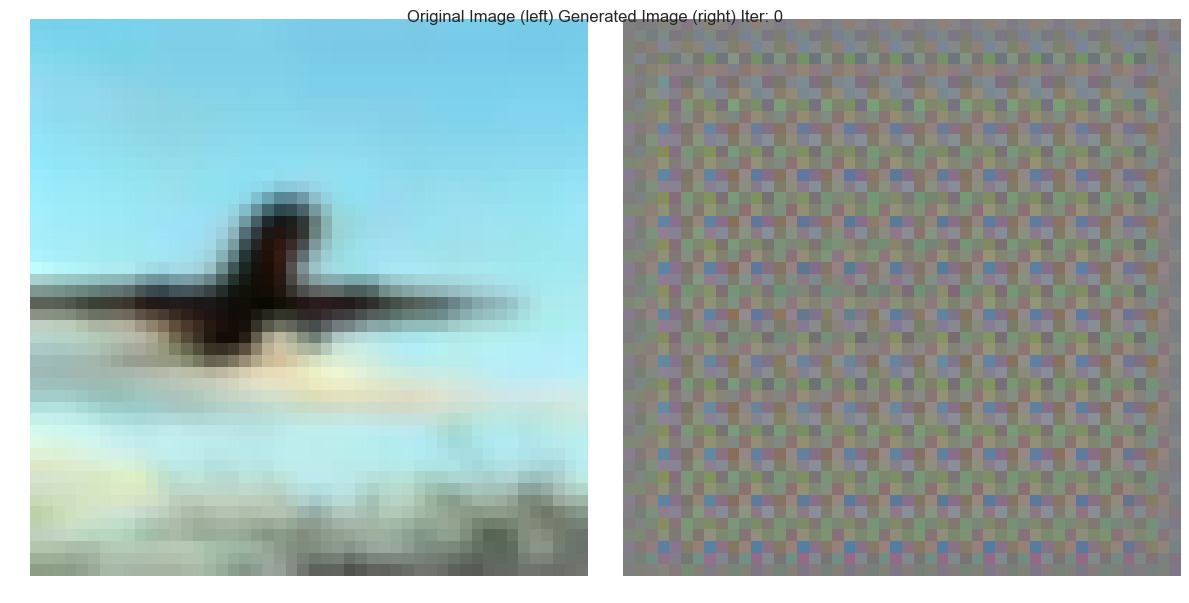
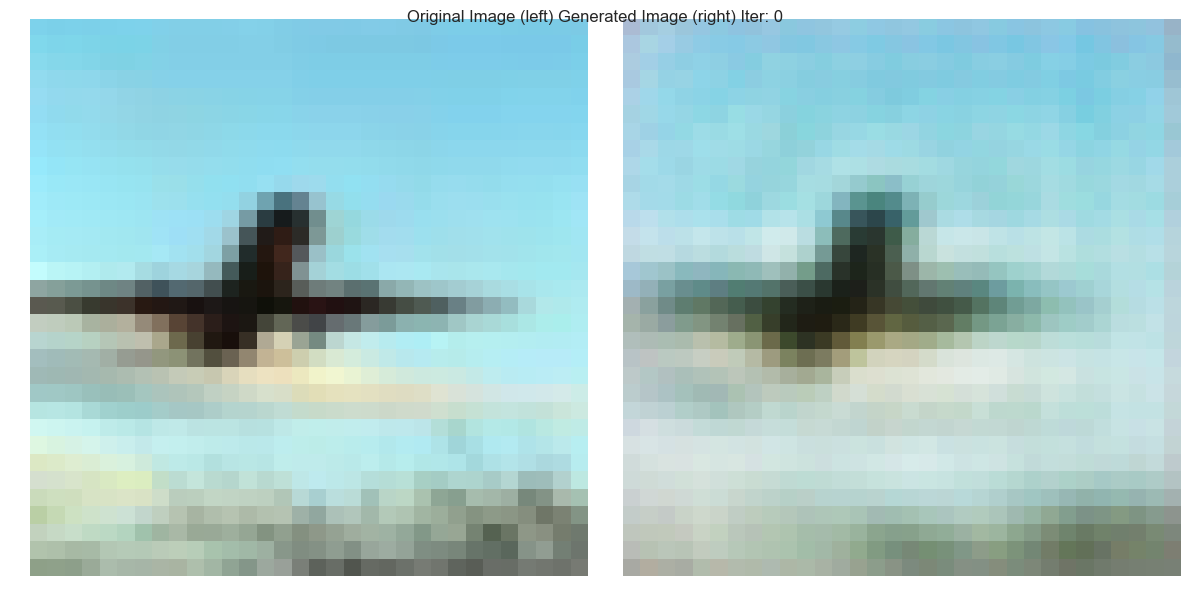
s

diff --git a/NeuralNetwork/Auto_ICA/b_CIFAR10.py b/NeuralNetwork/Auto_ICA/b_CIFAR10.py
@@ -9,9 +9,7 @@ from skimage.transform import resize
 from imgaug import augmenters as iaa
 import imgaug as ia
 from skimage.color import rgba2rgb
-from matplotlib import rcParams
 
-rcParams['axes.titlepad'] = 20 
 old_v = tf.logging.get_verbosity()
 tf.logging.set_verbosity(tf.logging.ERROR)
 from tensorflow.examples.tutorials.mnist import input_data
@@ -261,16 +259,6 @@ test_batch = np.reshape(test_batch,(len(test_batch),3,32,32))
 # rotate data
 train_batch = np.rot90(np.rot90(train_batch,1,axes=(1,3)),3,axes=(1,2)).astype(np.float32)
 test_batch = np.rot90(np.rot90(test_batch,1,axes=(1,3)),3,axes=(1,2)).astype(np.float32)
-
-train_batch_temp = np.zeros((train_batch.shape[0],48,48,3))
-test_batch_temp = np.zeros((test_batch.shape[0],48,48,3))
-for x in range(len(train_batch)):
-    train_batch_temp[x,:,:,:] = imresize(train_batch[x,:,:,:],(48,48))
-for x in range(len(test_batch)):
-    test_batch_temp[x,:,:,:] = imresize(test_batch[x,:,:,:],(48,48))
-
-train_batch = train_batch_temp
-test_batch = test_batch_temp
 train_batch = train_batch/255.0
 test_batch = test_batch/255.0
 
@@ -283,6 +271,7 @@ print(test_batch.shape)
 print(test_label.shape)
 print(test_batch.max(),test_batch.min())
 
+
 # class
 el1 = CNN(3,3,64)
 el2 = CNN(3,64,128)
@@ -292,19 +281,19 @@ dl1 = CNN_Trans(3,128,256)
 dl2 = CNN_Trans(3,64,128)
 dl3 = CNN_Trans(3,32,64)
 
-fl0 = CNN(3,32,3,act=tf_sigmoid,d_act=d_tf_sigmoid)
-vgg16_loss = tf.keras.applications.VGG16(weights='imagenet', include_top=False,input_shape=(48,48,3))
+fl1 = CNN(3,64,64)
+fl2 = CNN(3,32,3,act=tf_sigmoid,d_act=d_tf_sigmoid)
 
 # hyper
 num_epoch = 30
-learning_rate = 0.000008
-batch_size = 100
+learning_rate = 0.0001
+batch_size = 50
 print_size = 2
 
 beta1,beta2,adam_e = 0.9,0.999,1e-8
 
 # graph
-x = tf.placeholder(shape=[batch_size,48,48,3],dtype=tf.float32)
+x = tf.placeholder(shape=[batch_size,32,32,3],dtype=tf.float32)
 
 elayer1 = el1.feedforward(x)
 elayer2_input = tf.nn.avg_pool(elayer1,strides=[1,2,2,1],ksize=[1,2,2,1],padding='VALID')
@@ -313,15 +302,16 @@ elayer3_input = tf.nn.avg_pool(elayer2,strides=[1,2,2,1],ksize=[1,2,2,1],padding
 elayer3 = el3.feedforward(elayer3_input)
 
 dlayer1 = dl1.feedforward(elayer3,stride=2)
-dlayer2 = dl2.feedforward(dlayer1,stride=1)
-dlayer3 = dl3.feedforward(dlayer2,stride=2)
-dlayer4 = fl0.feedforward(dlayer3)
+dlayer2 = dl2.feedforward(dlayer1,stride=2)
+flayer1 = fl1.feedforward(dlayer2,stride=2)
 
-og_cost = vgg16_loss(x)
-predict = vgg16_loss(dlayer4)
-cost = tf.reduce_mean(tf.square(predict-og_cost))
-total_cost = cost
-auto_train = tf.train.AdamOptimizer(learning_rate=learning_rate).minimize(cost)
+dlayer3 = dl3.feedforward(dlayer2,stride=2)
+flayer2 = fl2.feedforward(dlayer3,stride=2)
+
+cost0 = tf.reduce_mean(tf.square(flayer2-x))
+
+total_cost = cost0
+auto_train = tf.train.AdamOptimizer(learning_rate=learning_rate).minimize(total_cost)
 
 # sess
 with tf.Session() as sess:
@@ -355,7 +345,7 @@ with tf.Session() as sess:
             print("--------------")
 
             test_example = train_batch[:batch_size,:,:,:]
-            sess_results = sess.run([dlayer4],feed_dict={x:test_example})
+            sess_results = sess.run([flayer2],feed_dict={x:test_example})
             sess_results = sess_results[0][0,:,:,:]
             test_example = test_example[0,:,:,:]
 
